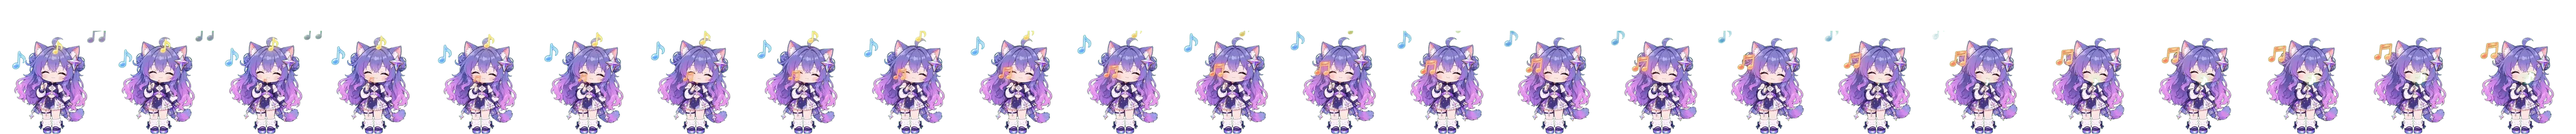
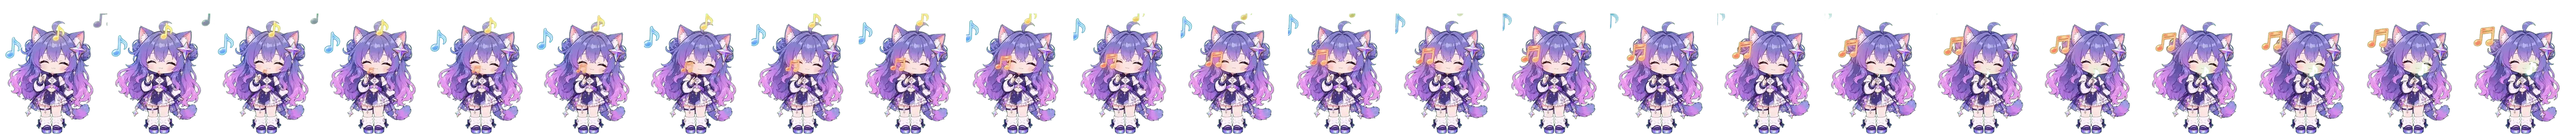
fix(mascot): 放大 Qwen 与 Gemini 的哼歌动作
素材脚本的缩放不再被宽度上限挡住，超出格子的部分横向纵向都裁掉；
两只宠物的 idle-spout 与待机等高，音符允许截断。

diff --git a/scripts/build-mascot-sheets.py b/scripts/build-mascot-sheets.py
@@ -192,20 +192,22 @@ def main():
             box = union_box(images[key], start, frames)
             width, height = box[2] - box[0], box[3] - box[1]
             # The pack draws some actions smaller than the idle one; `scale`
-            # lifts one back to the idle height, and the part that then stands
-            # above the cell is cropped off its top.
+            # lifts one back to the idle height, and whatever then stands
+            # outside the cell is cropped off.
             fit = min(base, OUT_W / width, OUT_H / height)
-            scale = min(fit * action.get('scale', 1), OUT_W / width)
+            scale = fit * action.get('scale', 1)
             strip = Image.new('RGBA', (frames * OUT_W, OUT_H), (0, 0, 0, 0))
             for index in range(frames):
                 frame = cell(images[key], start + index).crop(box)
-                w = max(1, min(OUT_W, round(width * scale)))
+                w = max(1, round(width * scale))
                 h = max(1, round(height * scale))
                 frame = frame.resize((w, h), Image.LANCZOS)
-                # Art taller than the cell keeps the shared ground line and
-                # loses its top: crop what stands above the cell before it goes in.
+                # Art wider or taller than the cell keeps its centre and ground
+                # line: the part outside the cell is cut before it goes in.
+                left = max(0, (w - OUT_W) // 2)
                 top = max(0, h - OUT_H)
-                strip.alpha_composite(frame.crop((0, top, w, h)), (index * OUT_W + (OUT_W - w) // 2, OUT_H - h + top))
+                piece = frame.crop((left, top, left + min(w, OUT_W), top + min(h, OUT_H)))
+                strip.alpha_composite(piece, (index * OUT_W + max(0, (OUT_W - w) // 2), max(0, OUT_H - h)))
             path = out_dir / f'{key}.webp'
             strip.save(path, 'WEBP', quality=82, method=6)
             derived[key] = {
